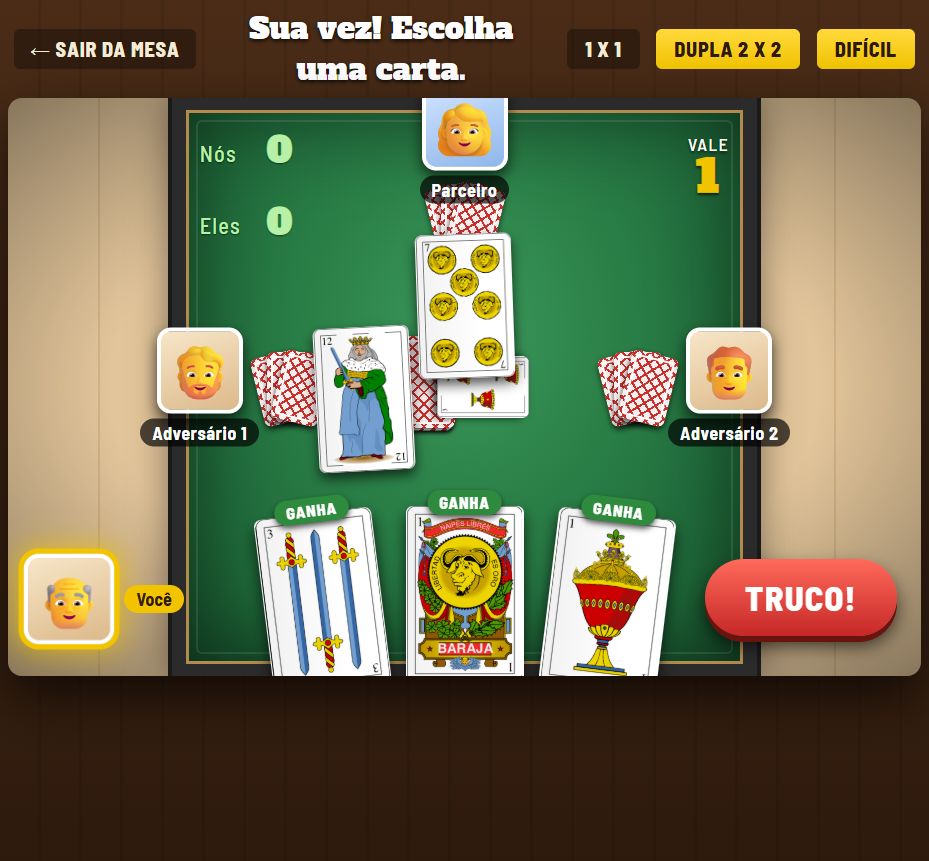
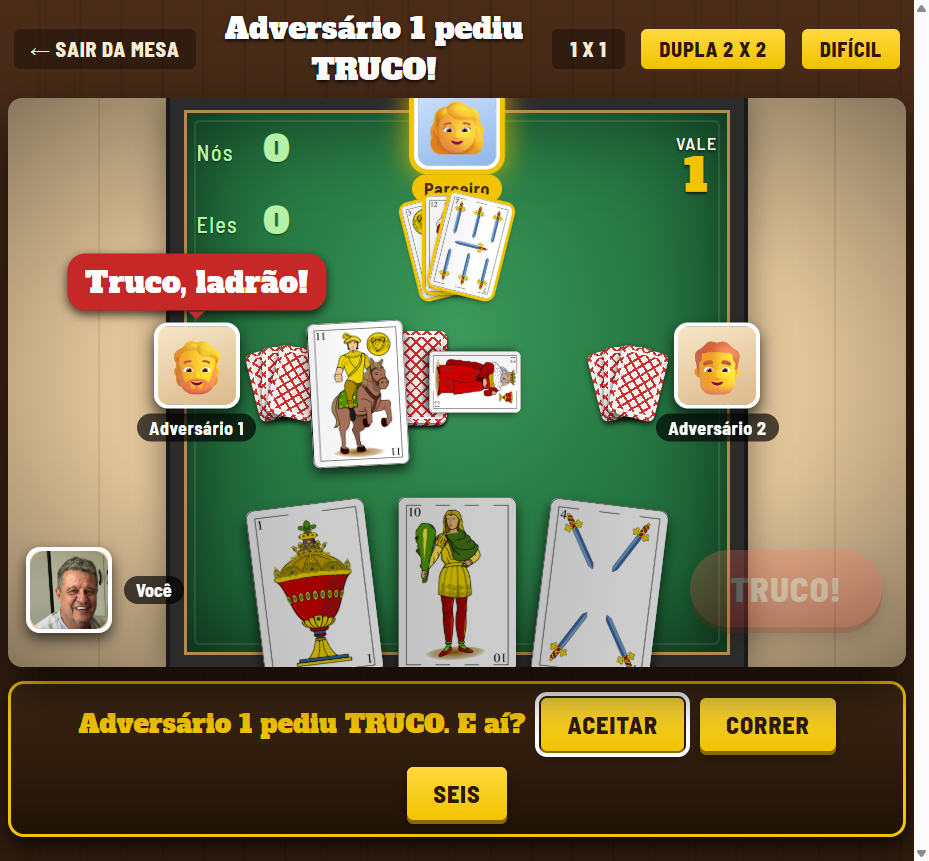
Truco: aviso fora da mesa, giria, consulta da dupla e blefe no lugar certo
O pedido de truco saiu da caixa que tapava a mesa e virou uma faixa abaixo
do tabuleiro: da pra ver as cartas jogadas e a propria mao enquanto decide.

Quando aceitam, o balao fala como gente ("To dentro!", "Manda ver!") e a
mensagem avisa que a vez voltou a ser sua.

Regra da casa: pedido o truco, cada dupla passa a ver a mao do parceiro.
Vale para os dois lados - os bots tambem deixam de sortear a mao do parceiro
e passam a decidir com ela. Nenhum lado enxerga carta de adversario.

Aposta agora tem hora: pedir de saida, sem ver nada, ficou raro (6% dos
pedidos, contra 93% da segunda rodada em diante). O blefe encolhe conforme a
aposta sobe e nao acontece mais em posicao perdida - era isso que fazia a
maquina blefar um nove com a ultima carta ja na mesa.

Esconde de novo o indicador de manilha.

diff --git a/index.html b/index.html
@@ -174,6 +174,9 @@
   .box{background:var(--giz);color:var(--madeira2);border-radius:8px;padding:26px 28px;text-align:center;
        max-width:640px;box-shadow:4px 6px 0 #00000088;transform:rotate(-1deg)}
   .box p{font-family:var(--disp);font-size:30px;margin:0 0 18px;line-height:1.2}
+  #modal-vira{display:flex;flex-direction:column;align-items:center;gap:6px;margin:0 0 16px}
+  #modal-vira span{font-family:var(--txt);font-size:18px;color:var(--madeira2)}
+  #modal-vira b{font-family:var(--disp);font-size:22px}
   details{background:#00000044;border-radius:8px;padding:10px 16px;margin-top:22px;font-size:20px;line-height:1.45}
   summary{cursor:pointer;font-size:22px;color:var(--copag-am);font-weight:700}
   @media (prefers-reduced-motion:reduce){ .card.click{transition:none} }
@@ -215,6 +218,7 @@
   .tt-av{width:86px;height:86px;margin:0 auto;border-radius:14px;display:flex;align-items:center;justify-content:center;
     font-size:54px;line-height:1;border:4px solid #fff;box-shadow:0 6px 14px #000a;
     background:linear-gradient(160deg,#f7e6c8,#dcb98a)}
+  .tt-av img{width:100%;height:100%;object-fit:cover;border-radius:inherit;display:block}
   .tt-seat.amigo .tt-av{background:linear-gradient(160deg,#cfe3ff,#8fb6ea)}
   .tt-seat .tt-nome{margin-top:5px;display:inline-block;padding:3px 12px;border-radius:999px;background:#000a;color:#fff;
     font-size:18px;font-weight:700;letter-spacing:.03em;white-space:nowrap}
@@ -265,14 +269,6 @@
   .tt-hand .card:nth-child(3){transform:rotate(7deg) translateY(6px)}
   .tt-hand .card.click:hover,.tt-hand .card.click:focus-visible{transform:translateY(-30px) scale(1.06);z-index:3;box-shadow:0 18px 24px #000c}
   .tt-hand .card:not(.click){filter:brightness(.8)}
-  .tt-hand .card.manilha{box-shadow:0 0 0 4px var(--copag-am),0 8px 14px #000b}
-  .tt-tag{position:absolute;left:50%;top:-16px;transform:translateX(-50%);padding:3px 12px;border-radius:999px;
-    font-family:var(--txt);font-size:16px;font-weight:800;letter-spacing:.06em;text-transform:uppercase;white-space:nowrap;
-    box-shadow:0 3px 6px #000a;z-index:3}
-  .tt-tag.man{background:var(--copag-am);color:#2e1a0d}
-  .tt-tag.ganha{background:#2e8b3e;color:#fff}
-  .tt-tag.perde{background:#6b6b6b;color:#fff}
-  .tt-tag.empata{background:#9a7b1e;color:#fff}
 
   .tt-btn{position:absolute;right:2%;bottom:6%;z-index:5;font-size:34px;padding:18px 40px;border-radius:999px;
     background:linear-gradient(180deg,#ff6a5a,#c62828);color:#fff;box-shadow:0 6px 0 #6a1410,0 10px 18px #000a}
@@ -293,12 +289,22 @@
     .tt-backs{width:70px;height:46px}.tt-backs .card{width:32px;height:46px;margin-left:-16px}
     .tt-slot .card{width:66px;height:99px}.tt-slot .card .n{font-size:15px}.tt-slot .card .pips{inset:8px}
     .tt-deck{transform:translate(-50%,-50%) scale(.7)}.tt-manilha{font-size:13px}.tt-manilha b{font-size:17px}
-    .tt-hand .card{width:92px;height:138px;margin:0 2px}.tt-hand .card .n{font-size:20px}.tt-hand .card .pips{inset:11px}
-    .tt-tag{font-size:12px;padding:2px 8px}
+    .tt-hand .card{width:92px;height:138px;margin:0 2px}.tt-hand .card .n{font-size:20px}
     .tt-msg{font-size:20px;flex-basis:100%}
     .tt-btn{font-size:22px;padding:12px 22px;bottom:2%}.tt-you{display:none}
   }
   @media (prefers-reduced-motion:reduce){.tt-balao,.tt-slot .card.in,.tt-seat.vez .tt-av,.tt-you.vez .tt-av,.tt-vale.alto b{animation:none}.tt-hand .card{transition:none}}
+  .tt-aposta{display:flex;align-items:center;justify-content:center;gap:16px;flex-wrap:wrap;
+    margin:14px auto 0;max-width:920px;padding:14px 22px;border-radius:16px;
+    background:linear-gradient(180deg,#3d2614,#211206);border:3px solid var(--copag-am);
+    box-shadow:0 8px 22px #000b}
+  .tt-aposta .txt{font-family:var(--disp);font-size:26px;color:var(--copag-am);text-align:center}
+  .tt-aposta button{font-size:24px;padding:12px 26px;margin:0}
+  @media (max-width:760px){ .tt-aposta{gap:9px;padding:10px 12px;margin-top:10px}
+    .tt-aposta .txt{font-size:18px;flex-basis:100%} .tt-aposta button{font-size:17px;padding:9px 15px} }
+  .tt-backs.aberto{width:150px;height:96px;transform:translate(-50%,-22%);z-index:4}
+  .tt-backs.aberto .card{width:64px;height:96px;margin-left:-32px;box-shadow:0 0 0 3px var(--copag-am),0 3px 6px #000a}
+  @media (max-width:760px){ .tt-backs.aberto{width:96px;height:62px} .tt-backs.aberto .card{width:42px;height:62px;margin-left:-21px} }
 </style>
 </head>
 <body>
@@ -336,10 +342,11 @@
     <div id="tt-seats"></div>
     <div class="tt-deck" id="t-deck"></div>
     <div id="tt-slots"></div>
-    <div class="tt-you" id="tt-you"><div class="tt-av">👴</div><span class="tt-nome">Você</span></div>
+    <div class="tt-you" id="tt-you"><div class="tt-av"><img src="perfil/pai.jpg" alt="" onerror="this.replaceWith('👴')"></div><span class="tt-nome">Você</span></div>
     <div class="tt-hand" id="t-phand"></div>
     <button class="tt-btn" id="t-truco" onclick="pedirTruco(0)">Truco</button>
   </div>
+  <div class="tt-aposta hidden" id="t-aposta"></div>
 </div>
 
 <!-- ================= CACHETA ================= -->
@@ -390,6 +397,7 @@
 </div>
 
 <div id="modal" class="overlay hidden"><div class="box">
+  <div id="modal-vira" class="hidden"></div>
   <p id="modal-txt"></p><div id="modal-btns"></div>
 </div></div>
 
@@ -445,7 +453,16 @@ function voltar(){ ["scr-menu","scr-truco","scr-cacheta-cfg","scr-cacheta"].forE
                    $("scr-menu").classList.remove("hidden"); fecharModal(); }
 function mostrar(id){ ["scr-menu","scr-truco","scr-cacheta-cfg","scr-cacheta"].forEach(i=>$(i).classList.add("hidden"));
                       $(id).classList.remove("hidden"); }
-function modal(txt, botoes){
+function modal(txt, botoes, vira){
+  // a caixa fica no meio da mesa e tapa o vira; quando a decisão depende dele, mostra aqui
+  const v = $("modal-vira");
+  v.innerHTML = "";
+  v.classList.toggle("hidden", !vira);
+  if(vira){
+    v.appendChild(cardEl(vira));
+    v.insertAdjacentHTML("beforeend",
+      `<span>vira <b>${vira.r}</b> &middot; manilha <b>${T.manilha}</b></span>`);
+  }
   $("modal-txt").textContent = txt;
   const b = $("modal-btns"); b.innerHTML = "";
   botoes.forEach(([lbl,fn])=>{ const x=document.createElement("button"); x.textContent=lbl;
@@ -494,7 +511,8 @@ function novaMao(){
   const baralho = shuffle(T_ORDEM.flatMap(r => T_NAIPES.map(s => ({r,s}))));
   T.maos = []; for(let i=0;i<T.n;i++) T.maos.push(baralho.slice(i*3, i*3+3));
   T.vira = baralho[T.n*3]; T.manilha = manilhaDe(T.vira);
-  T.vazas = []; T.jogadas = []; T.valor = 1; T.pendente = null; T.ultimoPediu = null; T.fim = false;
+  $("t-aposta").classList.add("hidden");
+  T.vazas = []; T.jogadas = []; T.parceiroAberto = false; T.valor = 1; T.pendente = null; T.ultimoPediu = null; T.fim = false;
   T.abreVaza = T.abreMao;
   iniciarVaza();
 }
@@ -516,6 +534,8 @@ function seguir(){
 }
 
 const AVATAR = { 2:["👴","🤖"], 4:["👴","🧔","👩","👨🦰"] };
+/* assento 0 = o dono do jogo. Se perfil/pai.jpg nao existir, o onerror devolve o emoji. */
+const avatarHTML = a => a === 0 ? `<img src="perfil/pai.jpg" alt="" onerror="this.replaceWith('👴')">` : AVATAR[T.n][a];
 // posições (% da mesa) por assento: av = avatar, bk = cartas viradas, sl = carta jogada
 const POS = {
   2:{ 1:{av:[50,8], bk:[50,21], sl:[50,36]}, 0:{sl:[50,68]} },
@@ -542,13 +562,14 @@ function render(){
     const s = document.createElement("div");
     s.className = "tt-seat" + (T.times[a]===0?" amigo":"") + (a===vez?" vez":"");
     pct(s, p.av);
-    s.innerHTML = `<div class="tt-av">${AVATAR[T.n][a]}</div><span class="tt-nome">${NOMES[T.n][a]}</span>`;
+    s.innerHTML = `<div class="tt-av">${avatarHTML(a)}</div><span class="tt-nome">${NOMES[T.n][a]}</span>`;
     if(T.balao && T.balao.a===a) s.insertAdjacentHTML("afterbegin",
       `<div class="tt-balao${T.balao.grito?" grito":""}">${T.balao.txt}</div>`);
     seats.push(s);
-    const bk = document.createElement("div"); bk.className = "tt-backs"; pct(bk, p.bk);
+    const aberto = T.parceiroAberto && T.times[a] === T.times[0];   // só a mão do SEU parceiro
+    const bk = document.createElement("div"); bk.className = "tt-backs" + (aberto ? " aberto" : ""); pct(bk, p.bk);
     const n = T.maos[a].length, rot = [-14,0,14].slice(0,n);
-    T.maos[a].forEach((_,k)=>{ const c = cardEl(null); c.style.transform = `rotate(${rot[k] - (n===2?7:0)}deg)`; bk.appendChild(c); });
+    T.maos[a].forEach((cc,k)=>{ const c = cardEl(aberto ? cc : null); c.style.transform = `rotate(${rot[k] - (n===2?7:0)}deg)`; bk.appendChild(c); });
     seats.push(bk);
   }
   fill("tt-seats", seats);
@@ -586,19 +607,10 @@ function render(){
   });
   fill("tt-slots", slots);
 
-  // minha mão com dicas
+  // minha mão — sem dica nenhuma, quem lê a carta é o jogador
   const minhaVez = !T.fim && !T.pendente && vez === 0;
-  fill("t-phand", T.maos[0].map((c,i)=>{
-    const el = cardEl(c, c.r===T.manilha ? "manilha" : "", minhaVez ? ()=>jogar(0,i) : null);
-    const man = c.r===T.manilha;
-    let k = man ? ["man","Manilha"] : null;
-    if(minhaVez && lider){
-      const f = forca(c), r = f>lider.f ? ["ganha","Ganha"] : f===lider.f ? ["empata","Empata"] : ["perde","Perde"];
-      k = man ? [r[0], "Manilha · "+r[1]] : r;
-    }
-    if(k) el.insertAdjacentHTML("beforeend", `<span class="tt-tag ${k[0]}">${k[1]}</span>`);
-    return el;
-  }));
+  fill("t-phand", T.maos[0].map((c,i)=>
+    cardEl(c, "", minhaVez ? ()=>jogar(0,i) : null)));
 
   $("t-msg").textContent = T.msg;
   $("t-vazas").innerHTML = T.vazas.map(r=>`<span class="${r}" title="${r==="t"?"empate":nomeTime(r)}"></span>`).join("");
@@ -657,8 +669,15 @@ function ciclaDificuldade(){
 }
 
 const chaveC = c => c.r + c.s;
+/* Regra da casa: assim que alguém pede truco, cada dupla pode olhar a mão do parceiro.
+   Vale pros dois lados — inclusive pros bots, que passam a contar com essa informação. */
+function parceiroDe(a){ return T.n === 4 ? T.times.findIndex((tm,i)=> i !== a && tm === T.times[a]) : -1; }
+function parceiroVisivel(a){ return T.parceiroAberto ? parceiroDe(a) : -1; }
+
 function desconhecidas(a){
-  const vistas = new Set([chaveC(T.vira), ...T.jogadas.map(chaveC), ...T.maos[a].map(chaveC)]);
+  const par = parceiroVisivel(a);
+  const minhas = par >= 0 ? T.maos[a].concat(T.maos[par]) : T.maos[a];
+  const vistas = new Set([chaveC(T.vira), ...T.jogadas.map(chaveC), ...minhas.map(chaveC)]);
   const fora = [];
   T_ORDEM.forEach(r => T_NAIPES.forEach(s => { if(!vistas.has(r+s)) fora.push({r,s}); }));
   return fora;
@@ -713,9 +732,10 @@ function estadoBase(a, maos){
 }
 function reparte(a, fora){
   shuffle(fora);
+  const par = parceiroVisivel(a);
   let p = 0;
   return T.maos.map((m,i)=>{
-    if(i === a) return m.slice();
+    if(i === a || i === par) return m.slice();   // parceiro já mostrou: não sorteia
     const q = fora.slice(p, p + m.length); p += m.length; return q;
   });
 }
@@ -755,15 +775,40 @@ function assentoQueDecide(time){
   return meus[0];
 }
 
+/* Quando um truqueiro de verdade pede — e quando cala a boca.
+   Sem isso o bot pede truco na hora errada e blefa nove como se fosse um.  */
+const ESCALA_BLEFE = { 1:1, 3:0.40, 6:0.18, 9:0.08 };   // blefar sobe de preço junto com a aposta
+
+function momento(a){
+  const semCartas = !T.maos[a].length;
+  const primeiraVaza = T.vazas.length === 0;
+  const mesaVazia = T.mesa.every(c => !c);
+  let f = 1;
+
+  if(primeiraVaza && mesaVazia) f = 0.25;        // pedir de saída, sem ver nada: raro
+  else if(primeiraVaza)         f = 0.55;        // já viu a carta do outro: começa a valer
+  else if(T.vazas[0] === timeSigla(T.times[a])) f = 1.35;   // ganhou a primeira: a hora clássica
+
+  // já jogou tudo e o adversário ainda decide a vaza olhando a carta dele:
+  // pressionar aí só ganha se ele correr com carta boa — quase nunca
+  const faltaAdversario = T.mesa.some((c,i) => !c && T.times[i] !== T.times[a] && T.maos[i].length);
+  if(semCartas && faltaAdversario) f *= 0.35;
+  else if(semCartas) f *= 0.6;
+
+  return f;
+}
+
 function botResponde(time){
   const a = assentoQueDecide(time);
   const d = DIF[T.dif] || DIF.dificil, per = T.persona[a] || PERSONAS[0];
   const p = probMao(a, d.sims), r = Math.random();
   const prox = proxValor(T.pendente);
   const lim = limiteAceite(T.pendente, T.valor) + d.margem + per.ped;
-  const blefe = d.blefe * per.blefe;
-  if(prox && (p > 0.66 || r < blefe * 0.45)) return pedirTruco(a);   // sobe: de verdade ou blefando
-  if(p > lim || r < blefe) return aceitar(timeSigla(time));          // paga pra ver
+  const blefe = d.blefe * per.blefe * (ESCALA_BLEFE[T.valor] || 0.08) * momento(a);
+
+  // sobe com mão de ferro; blefa só se ainda sobrar alguma chance real
+  if(prox && (p > 0.70 || (p > 0.22 && r < blefe))) return pedirTruco(a);
+  if(p > lim || r < 0.22) return aceitar(timeSigla(time));   // paga pra ver
   correr(timeSigla(time));
 }
 
@@ -774,9 +819,10 @@ function turnoBot(a){
 
   const prox = proxValor(T.valor);
   if(prox && T.ultimoPediu !== timeSigla(meuTime)){
-    const p = probMao(a, d.sims), r = Math.random();
-    const forte = p > 0.62 + per.ped;
-    if(forte ? r < 0.6 : (p < 0.34 && r < d.blefe * per.blefe * 0.55)) return pedirTruco(a);
+    const p = probMao(a, d.sims), r = Math.random(), m = momento(a);
+    const blefe = d.blefe * per.blefe * (ESCALA_BLEFE[T.valor] || 0.08) * m;
+    const forte = p > 0.64 + per.ped;
+    if(forte ? r < 0.58 * m : (p > 0.22 && p < 0.40 && r < blefe)) return pedirTruco(a);
   }
 
   const probs = avaliaJogadas(a, d.sims);
@@ -826,12 +872,29 @@ function donoDaMao(r){
 }
 
 /* ---------------- apostas ---------------- */
+/* gíria de mesa — o bot responde como gente, não como caixa de diálogo */
+const FALAS = {
+  pede:   { 3:["TRUCO!","Truco, ladrão!","Truco!"], 6:["SEIS!","Seis!"], 9:["NOVE!"], 12:["DOZE!"] },
+  aceita: ["Tô dentro!","Manda ver!","Pode vir!","Tô junto!","Vem que tem!","Cara a cara!"],
+  corre:  ["Corro...","Tá teu.","Essa é tua.","Não vou não.","Fica pra próxima."]
+};
+const fala = arr => arr[(Math.random()*arr.length)|0];
+
+function barraAposta(txt, botoes){
+  const b = $("t-aposta");
+  b.innerHTML = `<span class="txt">${txt}</span>`;
+  botoes.forEach(([lbl,fn])=>{ const x = document.createElement("button"); x.textContent = lbl;
+    x.onclick = ()=>{ b.classList.add("hidden"); fn(); }; b.appendChild(x); });
+  b.classList.remove("hidden");
+  b.querySelector("button").focus({preventScroll:true});
+}
+
 function pedirTruco(a){
   const prox = proxValor(T.pendente || T.valor);
   if(!prox || T.fim) return;
   const quem = timeSigla(T.times[a]);
   if(T.ultimoPediu === quem) return;
-  T.pendente = prox; T.ultimoPediu = quem; T.pediuAssento = a; T.balao = { a, txt: nomeAposta(prox)+"!", grito:true };
+  T.pendente = prox; T.ultimoPediu = quem; T.pediuAssento = a; if(T.n === 4) T.parceiroAberto = true; T.balao = { a, txt: fala(FALAS.pede[prox]), grito:true };
   reg("pediu", { quem: a===0 ? "voce" : "bot", assento:a, aposta:prox });
   T.msg = `${NOMES[T.n][a]} pediu ${nomeAposta(prox)}!`;
   render();
@@ -840,7 +903,7 @@ function pedirTruco(a){
   if(respondente === 0){
     const opcoes = [["Aceitar", ()=>aceitar("p")], ["Correr", ()=>correr("p")]];
     if(proxValor(prox)) opcoes.push([nomeAposta(proxValor(prox)), ()=>pedirTruco(0)]);
-    modal(`${NOMES[T.n][a]} pediu ${nomeAposta(prox)}. O que você faz?`, opcoes);
+    barraAposta(`${NOMES[T.n][a]} pediu ${nomeAposta(prox)}. E aí?`, opcoes);
   } else {
     setTimeout(()=>botResponde(respondente), 900);
   }
@@ -848,9 +911,11 @@ function pedirTruco(a){
 
 function aceitar(quem){
   reg("aceitou", { quem: quem==="p" ? "voce" : "bot", aposta:T.pendente });
-  T.valor = T.pendente; T.pendente = null; T.balao = { a: assentosDoTime(quem==="p"?0:1)[0], txt:"Aceito!" };
-  T.msg = (quem === "p" ? (T.n===4?"Sua dupla aceitou":"Você aceitou") : "Aceitaram")
-        + ` — vale ${T.valor}.`;
+  T.valor = T.pendente; T.pendente = null;
+  T.balao = { a: assentosDoTime(quem==="p"?0:1)[0], txt: fala(FALAS.aceita) };
+  const suaVez = T.pos < T.n && T.ordem[T.pos] === 0;
+  T.msg = (quem === "p" ? (T.n===4 ? "Vocês toparam" : "Você topou") : "Toparam!")
+        + ` Vale ${T.valor}` + (suaVez ? " — manda ver!" : ".");
   render();
   const a = T.ordem[T.pos];
   if(T.pos < T.n && a !== 0) setTimeout(()=>turnoBot(a), 800);
@@ -858,8 +923,8 @@ function aceitar(quem){
 
 function correr(quem){
   reg("correu", { quem: quem==="p" ? "voce" : "bot", valia:T.valor });
-  T.balao = { a: assentosDoTime(quem==="p"?0:1)[0], txt:"Corro..." };
-  T.msg = quem === "p" ? "Vocês correram." : "Os adversários correram!";
+  T.balao = { a: assentosDoTime(quem==="p"?0:1)[0], txt: fala(FALAS.corre) };
+  T.msg = quem === "p" ? "Vocês correram." : "Correram! Ponto é seu.";
   fimDaMao(quem === "p" ? "b" : "p", T.valor);
 }
 
